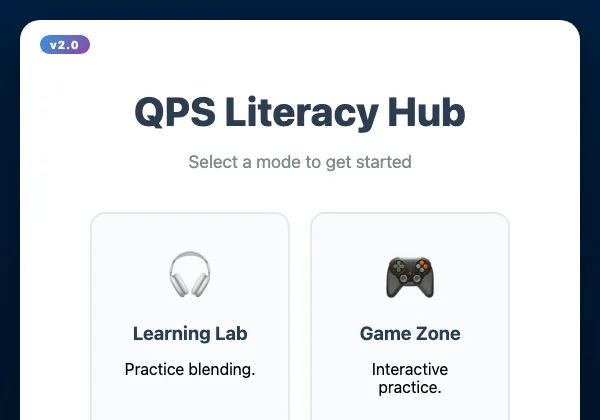
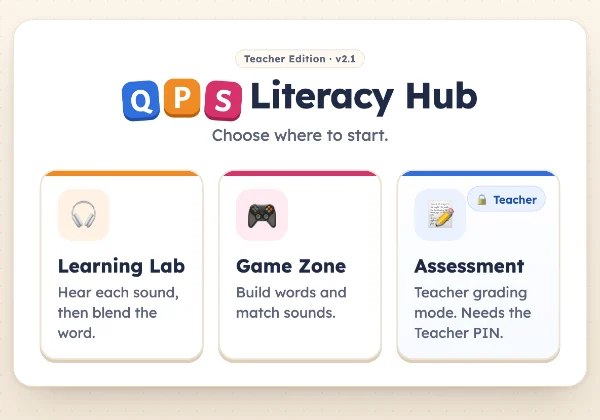
feat: new QPS Literacy Hub card picture to match the site's new look

diff --git a/index.html b/index.html
@@ -367,7 +367,7 @@
         <!-- Brought back from last year's portal (Marcos 10/14). No sign-in, nothing sent, so it needs no Guest view work. -->
         <a href="https://molivera1977.github.io/qps-literacy-hub/" class="card" target="_blank">
             <div class="card-image">
-                <img loading="lazy" src="images/qps-literacy-hub-2026.webp" alt="QPS Literacy Hub">
+                <img loading="lazy" src="images/qps-literacy-hub-2026.webp?v=look2" alt="QPS Literacy Hub">
             </div>
             <div class="card-content">
                 <div class="card-title">QPS Literacy Hub</div>
